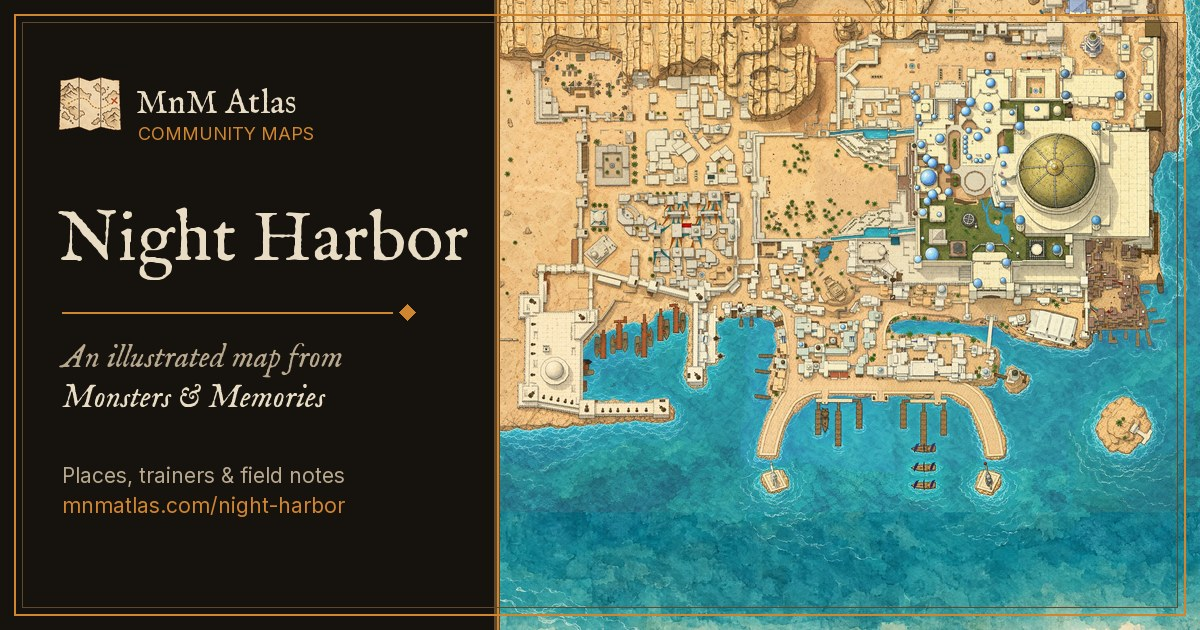
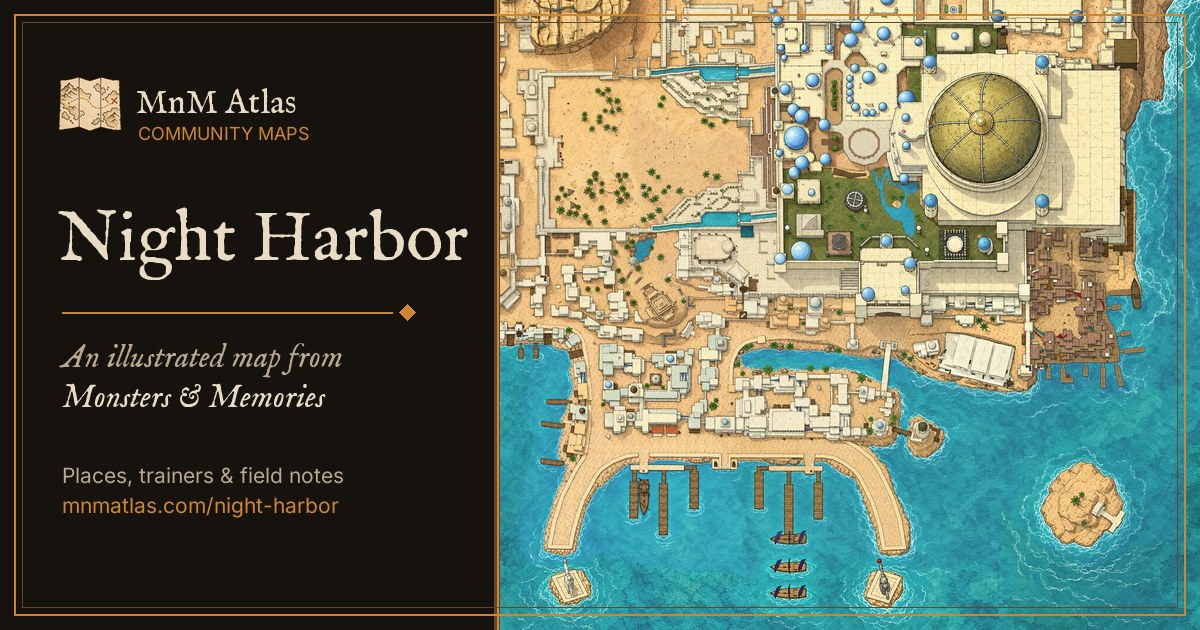
Show a closer Night Harbor view in link preview cards
The Night Harbor card and the site card now show the palace and harbour up close instead of half the city. Card versions are bumped so link previews refresh.

diff --git a/index.html b/index.html
@@ -4,8 +4,8 @@
  <meta charset="utf-8"><meta name="viewport" content="width=device-width,initial-scale=1">
  <meta name="theme-color" content="#16120e"><meta name="description" content="An illustrated community atlas of Monsters & Memories.">
  <meta property="og:site_name" content="MnM Atlas"><meta property="og:title" content="MnM Atlas"><meta property="og:description" content="An illustrated community atlas of Monsters & Memories."><meta property="og:url" content="https://www.mnmatlas.com/"><meta property="og:type" content="website">
- <meta property="og:image" content="https://www.mnmatlas.com/assets/og-card.jpg?v=3"><meta property="og:image:type" content="image/jpeg"><meta property="og:image:width" content="1200"><meta property="og:image:height" content="630"><meta property="og:image:alt" content="MnM Atlas, illustrated maps of Monsters & Memories, beside a watercolour chart of a harbour city.">
- <meta name="twitter:card" content="summary_large_image"><meta name="twitter:title" content="MnM Atlas"><meta name="twitter:description" content="An illustrated community atlas of Monsters & Memories."><meta name="twitter:image" content="https://www.mnmatlas.com/assets/og-card.jpg?v=3">
+ <meta property="og:image" content="https://www.mnmatlas.com/assets/og-card.jpg?v=4"><meta property="og:image:type" content="image/jpeg"><meta property="og:image:width" content="1200"><meta property="og:image:height" content="630"><meta property="og:image:alt" content="MnM Atlas, illustrated maps of Monsters & Memories, beside a watercolour chart of a harbour city.">
+ <meta name="twitter:card" content="summary_large_image"><meta name="twitter:title" content="MnM Atlas"><meta name="twitter:description" content="An illustrated community atlas of Monsters & Memories."><meta name="twitter:image" content="https://www.mnmatlas.com/assets/og-card.jpg?v=4">
  <link rel="icon" href="favicon.ico" sizes="48x48"><link rel="icon" href="assets/icons/icon-32.png" type="image/png" sizes="32x32"><link rel="icon" href="assets/icons/icon-16.png" type="image/png" sizes="16x16"><link rel="apple-touch-icon" href="assets/icons/apple-touch-icon.png"><link rel="manifest" href="site.webmanifest"><title>MnM Atlas</title>
  <link rel="stylesheet" href="assets/vendor/leaflet.css"><link rel="stylesheet" href="style.css?v=atlas-17">
  <script defer src="assets/vendor/leaflet.js"></script><script defer src="icons.js?v=atlas-18"></script><script defer src="hidden-areas.js?v=atlas-10"></script><script defer src="place-labels.js?v=atlas-15"></script><script defer src="config.js"></script><script defer src="assets/vendor/supabase.js"></script><script defer src="app.js?v=atlas-22"></script><script defer src="community.js?v=atlas-3"></script>

diff --git a/night-harbor/index.html b/night-harbor/index.html
@@ -4,8 +4,8 @@
  <meta charset="utf-8"><meta name="viewport" content="width=device-width,initial-scale=1"><meta name="theme-color" content="#16120e">
  <title>Night Harbor · MnM Atlas</title><meta name="description" content="An illustrated atlas of Night Harbor. Explore landmarks, find class trainers, and keep your own field notes.">
  <meta property="og:site_name" content="MnM Atlas"><meta property="og:title" content="Night Harbor · MnM Atlas"><meta property="og:description" content="An illustrated atlas of Night Harbor. Explore landmarks, find class trainers, and keep your own field notes."><meta property="og:url" content="https://www.mnmatlas.com/night-harbor/"><meta property="og:type" content="website">
- <meta property="og:image" content="https://www.mnmatlas.com/assets/cards/night-harbor.jpg?v=1"><meta property="og:image:type" content="image/jpeg"><meta property="og:image:width" content="1200"><meta property="og:image:height" content="630"><meta property="og:image:alt" content="Night Harbor, an illustrated map from Monsters & Memories, in MnM Atlas.">
- <meta name="twitter:card" content="summary_large_image"><meta name="twitter:title" content="Night Harbor · MnM Atlas"><meta name="twitter:description" content="An illustrated atlas of Night Harbor. Explore landmarks, find class trainers, and keep your own field notes."><meta name="twitter:image" content="https://www.mnmatlas.com/assets/cards/night-harbor.jpg?v=1">
+ <meta property="og:image" content="https://www.mnmatlas.com/assets/cards/night-harbor.jpg?v=2"><meta property="og:image:type" content="image/jpeg"><meta property="og:image:width" content="1200"><meta property="og:image:height" content="630"><meta property="og:image:alt" content="Night Harbor, an illustrated map from Monsters & Memories, in MnM Atlas.">
+ <meta name="twitter:card" content="summary_large_image"><meta name="twitter:title" content="Night Harbor · MnM Atlas"><meta name="twitter:description" content="An illustrated atlas of Night Harbor. Explore landmarks, find class trainers, and keep your own field notes."><meta name="twitter:image" content="https://www.mnmatlas.com/assets/cards/night-harbor.jpg?v=2">
  <link rel="canonical" href="https://www.mnmatlas.com/?map=night-harbor"><link rel="icon" href="../favicon.ico" sizes="48x48">
  <script>(()=>{const to=new URL('../',location.href),q=new URLSearchParams(location.search);q.set('map','night-harbor');to.search=q.toString();to.hash=location.hash;location.replace(to.href);})();</script>
  <noscript><meta http-equiv="refresh" content="0; url=../?map=night-harbor"></noscript>
